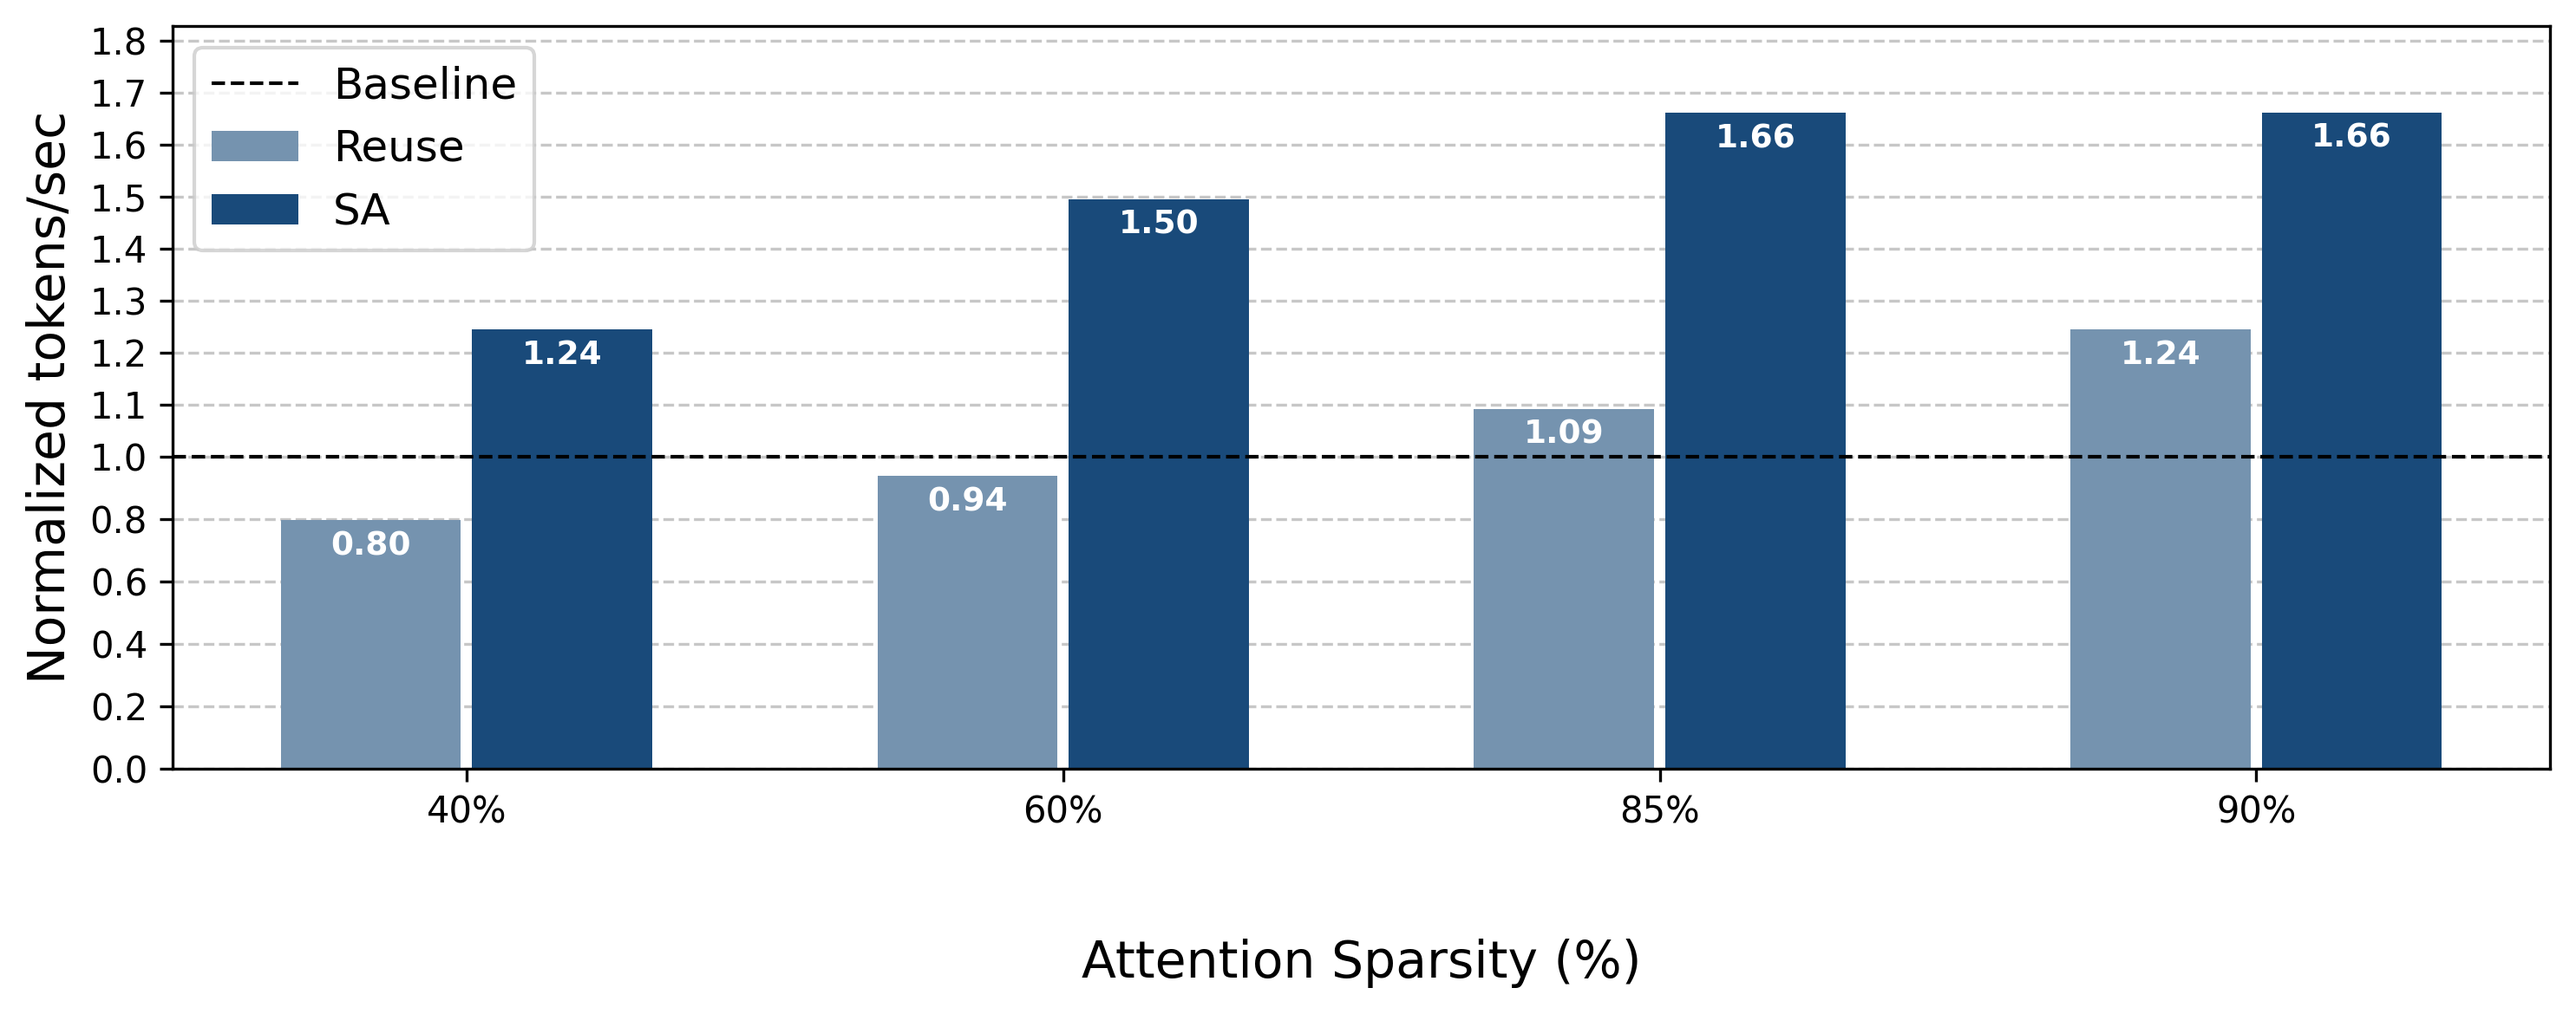
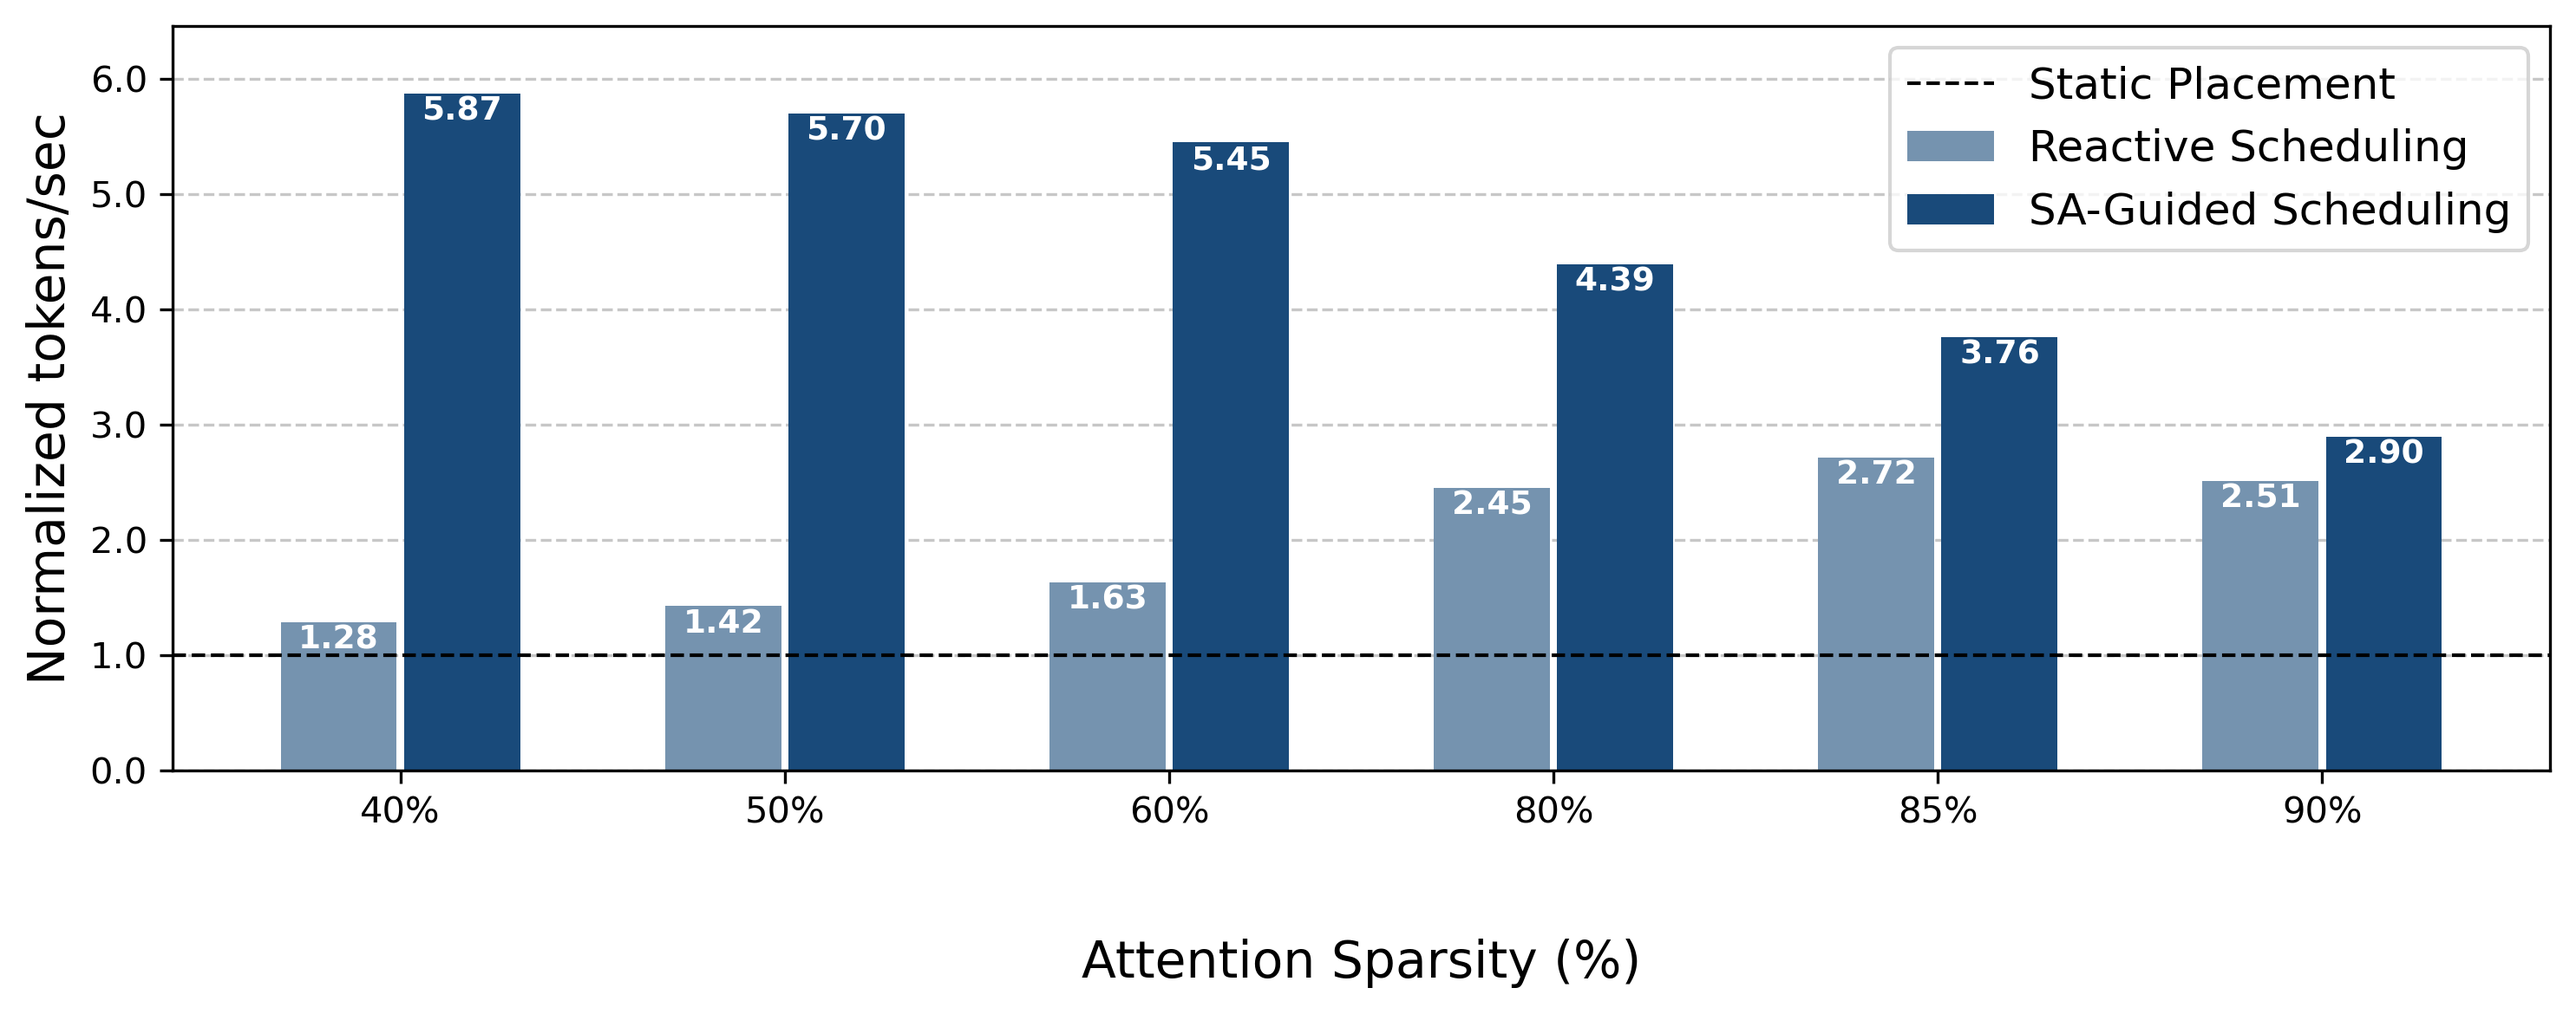
update

diff --git a/plot_scripts/plot_bars.py b/plot_scripts/plot_bars.py
@@ -39,8 +39,15 @@ if __name__ == "__main__":
     # --- 1) Load your data ----------------------------
     csv_path = "data/latency_vs_sparsity.csv"
 
-    tar_sparsities = [40, 60, 85, 90]
+    tar_sparsities = [40, 50, 60, 80, 85, 90]
     tar_methods = ['baseline', 'reuse', 'sa']
+
+    # Add display name mapping
+    display_names = {
+        'baseline': 'Static Placement',
+        'reuse': 'Reactive Scheduling',
+        'sa': 'SA-Guided Scheduling'
+    }
 
     data = load_latency_data(csv_path, tar_sparsities, tar_methods)
     sparsities = data['sparsity']                   # e.g. [85, 90, …]
@@ -74,7 +81,7 @@ if __name__ == "__main__":
             ]
     
     # --- 5) Piecewise scaling setup -------------------
-    LOWER_DST = (0.0, 0.6)
+    LOWER_DST = (0.0, 1.0)
     scaled = {
         m: [piecewise_scale(x,
                             lower_src=(0.0, 1.0),
@@ -115,10 +122,7 @@ if __name__ == "__main__":
             continue
         xs = index + offsets[bar_idx]
         # Custom label formatting
-        if m.lower() == 'sa':
-            label = 'SA'
-        else:
-            label = m.capitalize()
+        label = display_names[m.lower()]
             
         ax.bar(
             xs,
@@ -144,7 +148,7 @@ if __name__ == "__main__":
     ax.axhline(y=piecewise_scale(1.0, lower_dst=LOWER_DST), 
                color='black', 
                linestyle='--', 
-               label='Baseline',
+               label=display_names['baseline'],
                zorder=3,  # line above the bars
                linewidth=1.0)
         
@@ -157,8 +161,8 @@ if __name__ == "__main__":
     # custom y‐ticks back‐mapped to “real” normalized values
     y_max = max(max(norm[m]) for m in methods) * 1.1
     real_ticks = np.concatenate([
-        np.linspace(0, 1, 6, endpoint=True),
-        np.arange(1.1, np.ceil(y_max*10)/10 + 0.1, 0.1)
+        np.linspace(0, 1, 1, endpoint=True),
+        np.arange(1, np.ceil(y_max*10)/10 + 0.1, 1)
     ])
 
     # real_ticks = np.arange(1.0, np.ceil(y_max*10)/10 + 0.1, 0.1) 
@@ -177,7 +181,7 @@ if __name__ == "__main__":
     
     
     ax.grid(axis='y', linestyle='--', alpha=0.7)
-    ax.legend(loc='upper left', fontsize=12, frameon=True)
+    ax.legend(loc='upper right', fontsize=12, frameon=True)
     
     plt.tight_layout()
     plt.savefig("infer.png", dpi=300, bbox_inches="tight")
